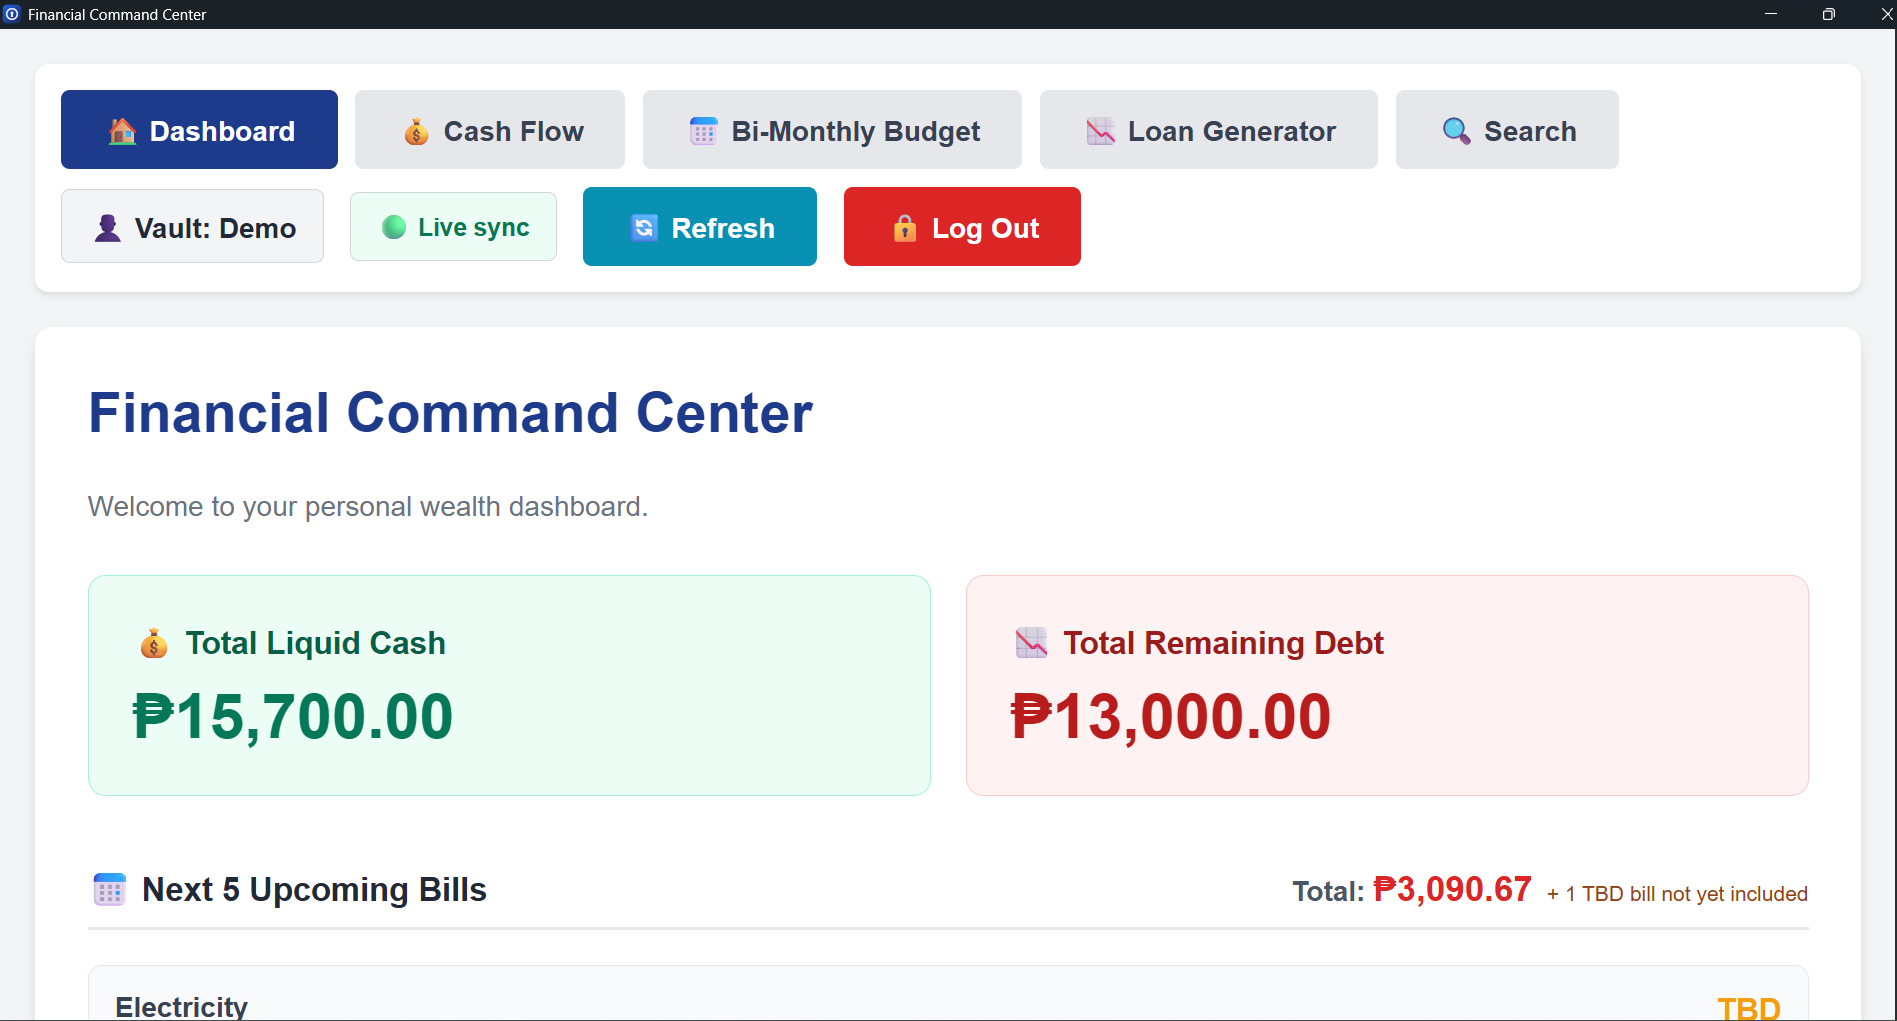
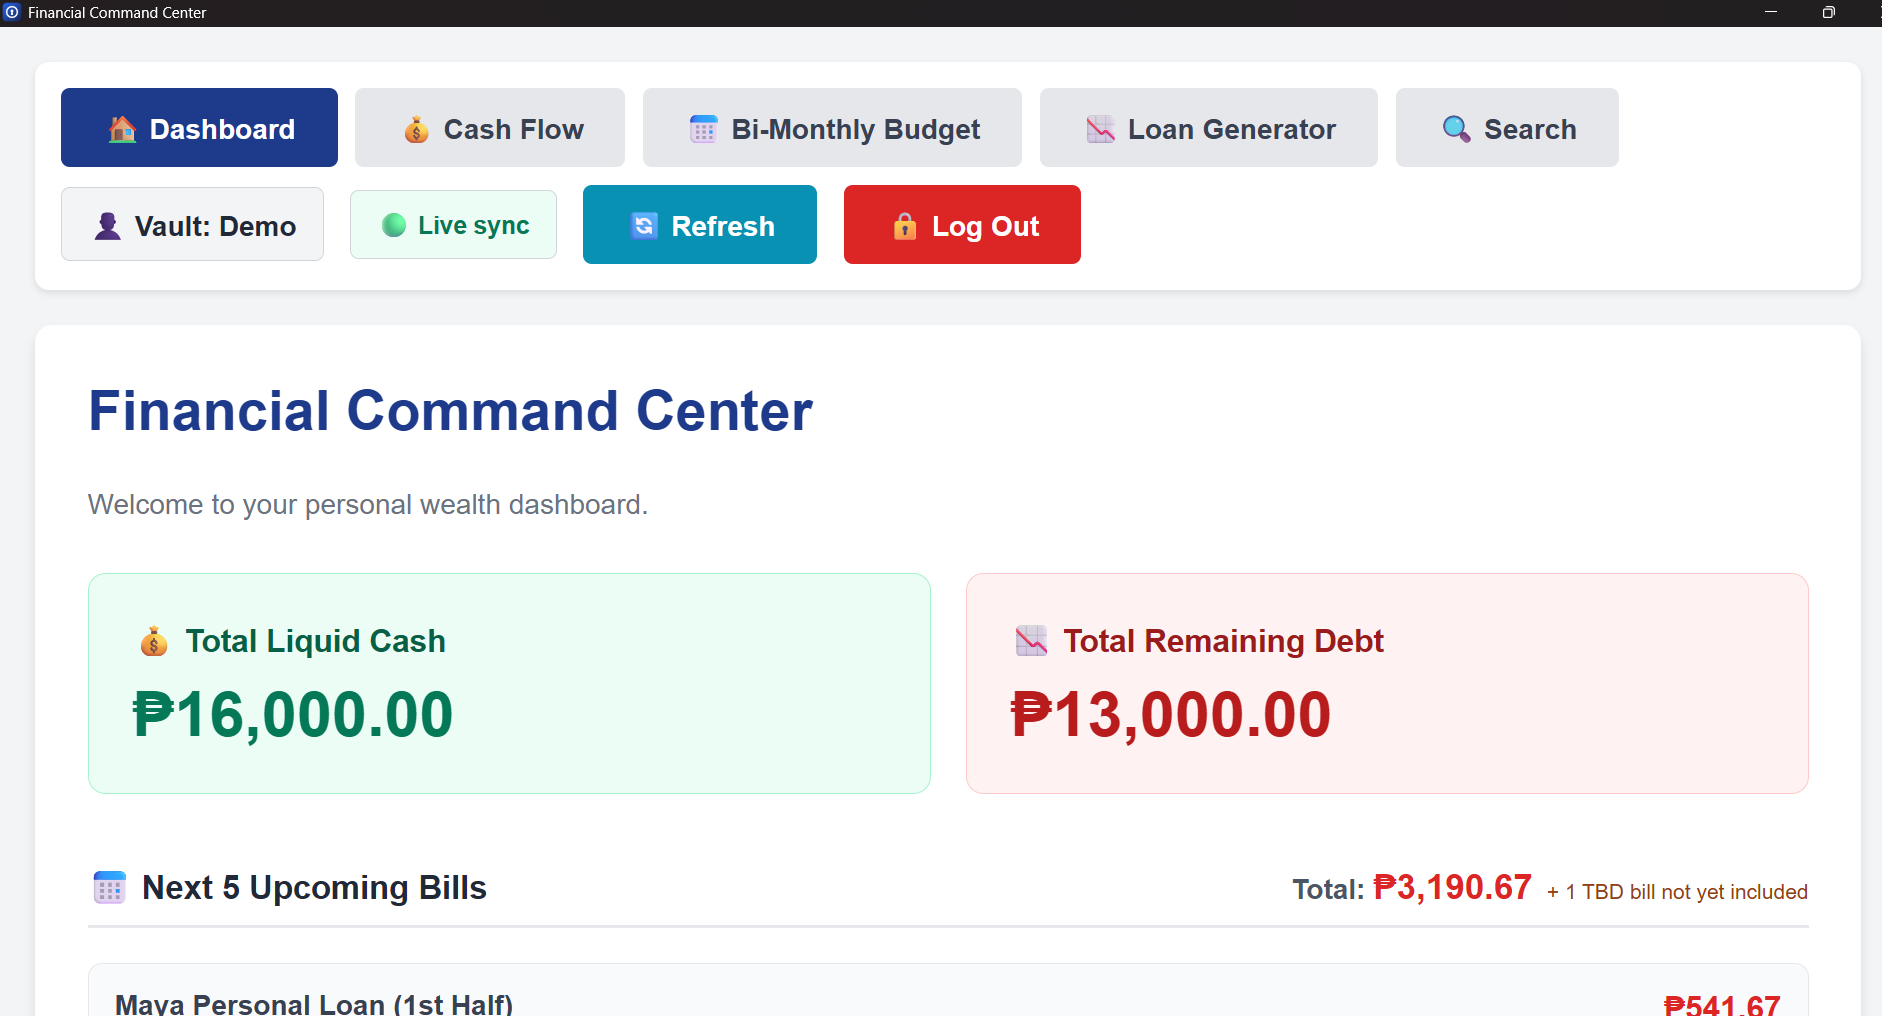
README: update the dashboard pair; PROGRESS: plan account renaming
Claude-Session: https://claude.ai/code/session_016QyV7iFiUs9wqCuQGwTs1j

diff --git a/PROGRESS.md b/PROGRESS.md
@@ -27,9 +27,12 @@ What's done, what's next, and what's blocked. Newest entries first.
 
 - [x] Add screenshots (desktop Dashboard, phone Dashboard, Loan Generator) to the README.
 - [x] Add a Bi-Monthly Budget screenshot.
-- [ ] Retake the Dashboard pair (desktop + phone) with the updated demo data.
+- [x] Retake the Dashboard pair (desktop + phone) with the updated demo data.
 - [ ] Record a 60-second demo: pay a bill on the phone, watch the desktop update.
 - [ ] Write a half-page case study for the portfolio.
+
+### Planned features
+- [ ] Edit and rename accounts in Cash Flow (e.g. rename "Demo Loan sinking Fund"). The new name should also show in loan schedules and Receipts.
 
 ### Bugs to fix later
 - [ ] Phone: bill rows on Bi-Monthly Budget are wider than the screen (buttons don't wrap), so the page slides sideways and "Handle Bill" is cut off.
